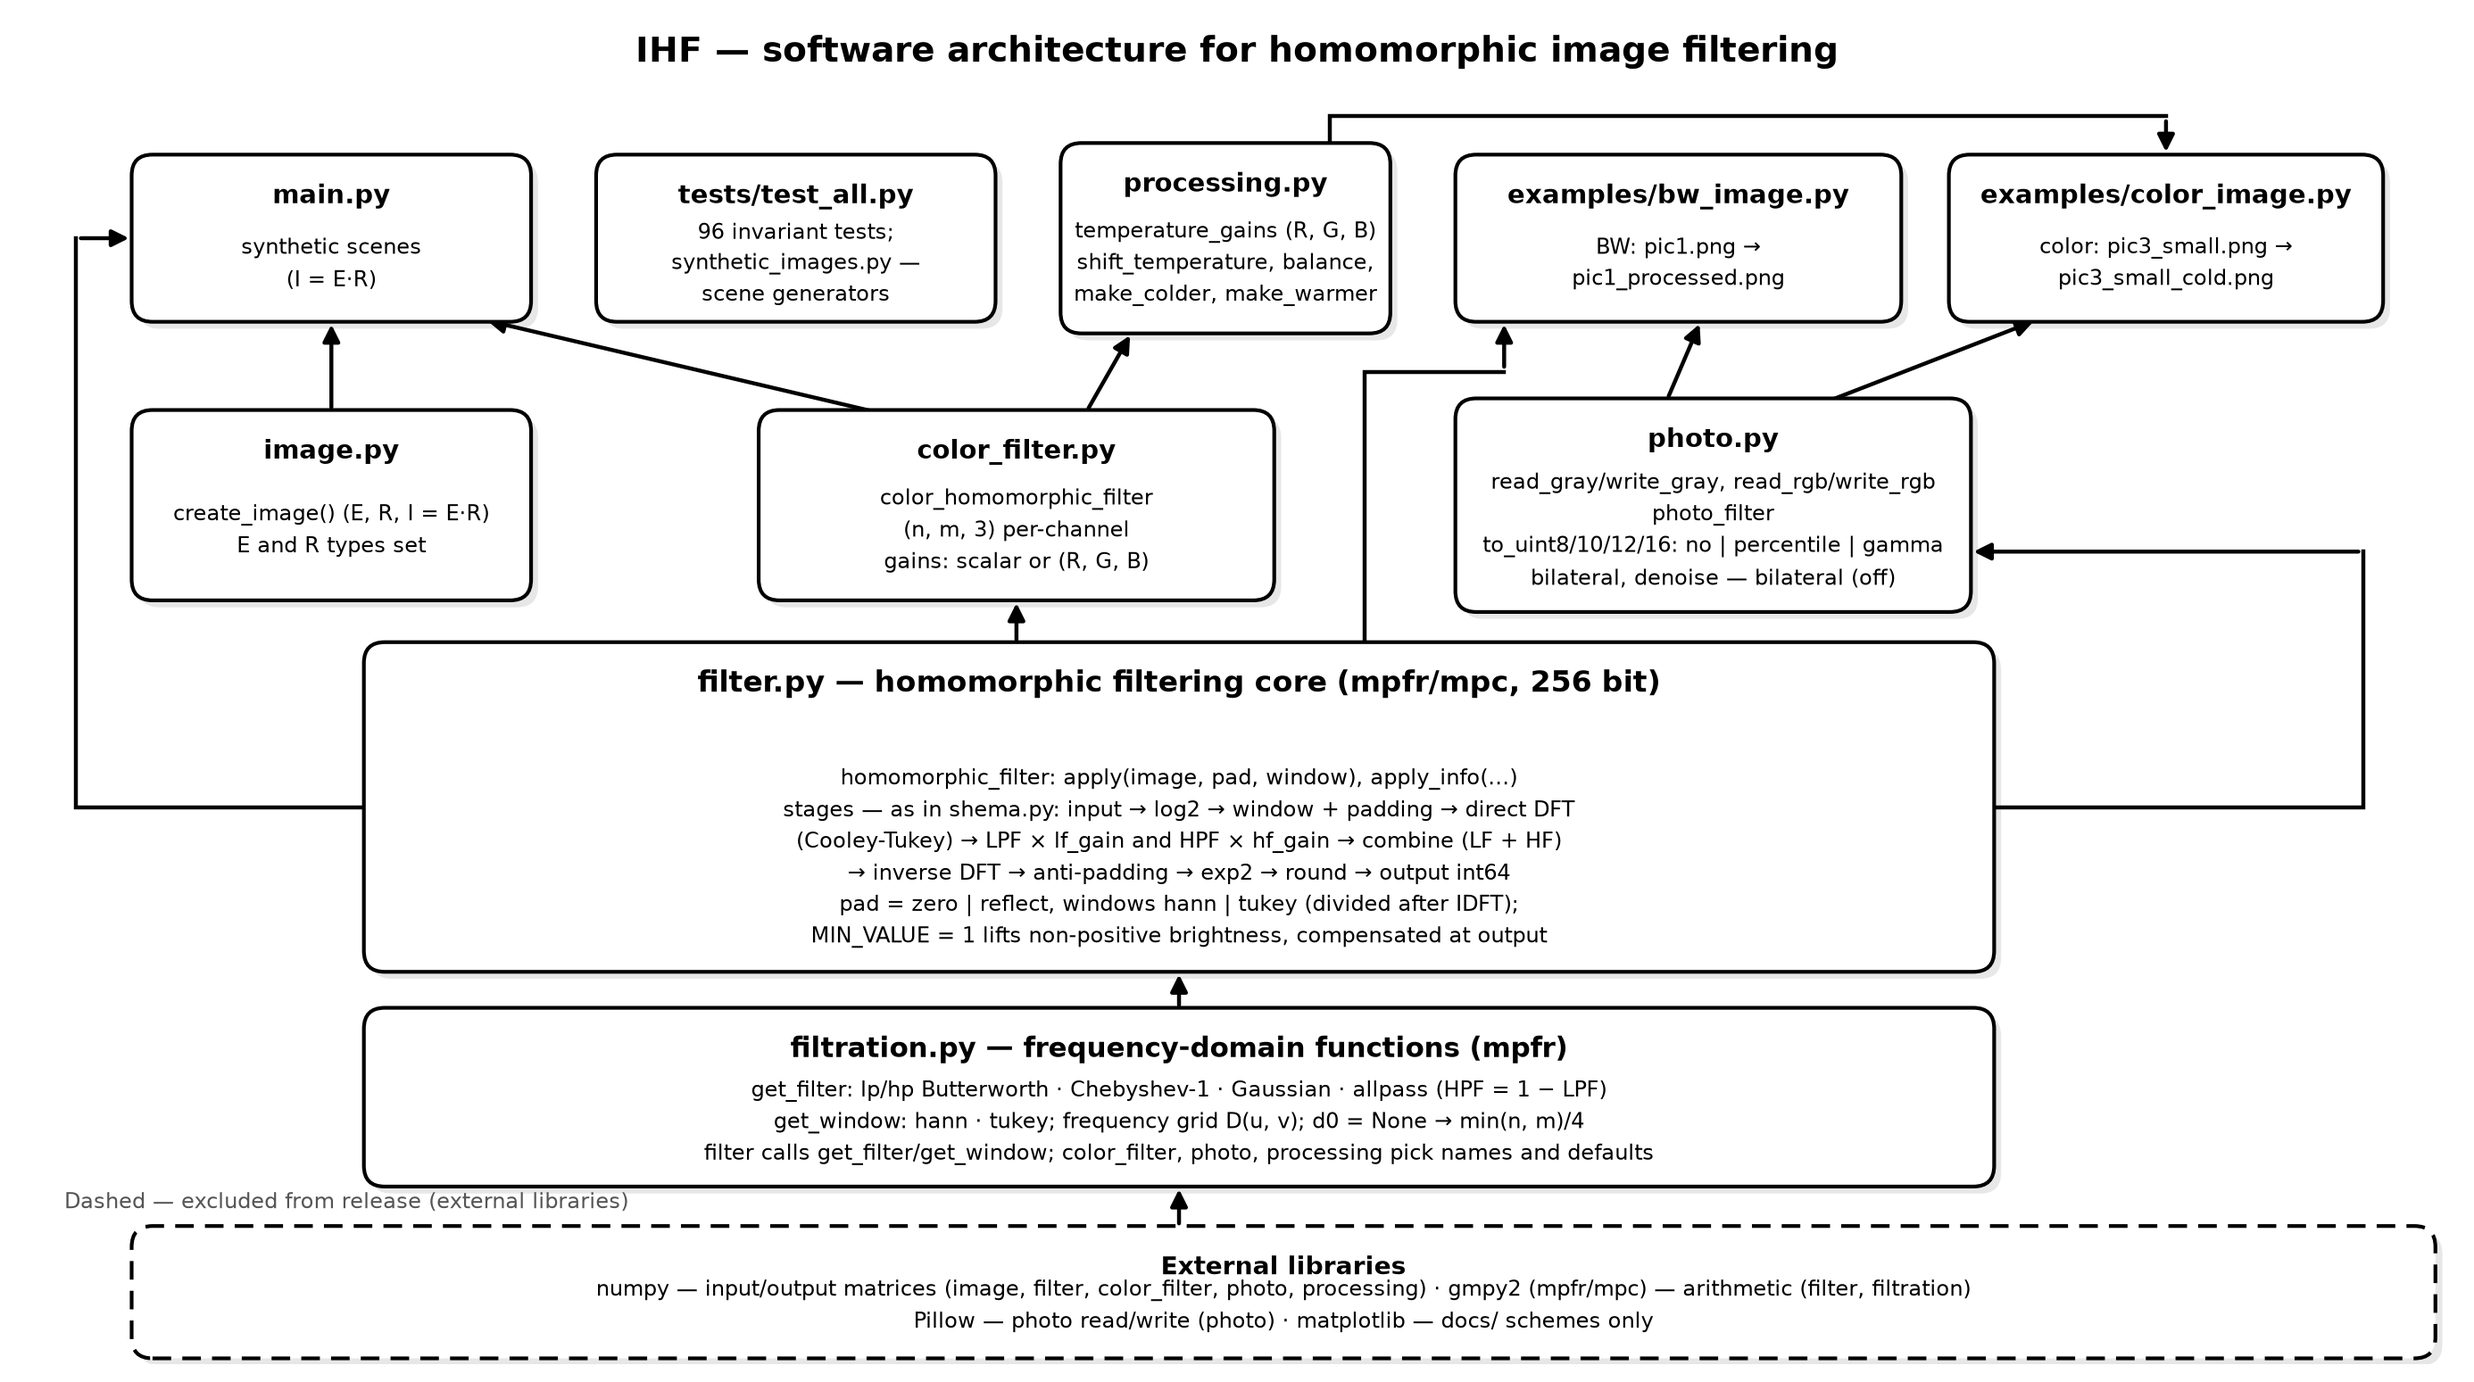
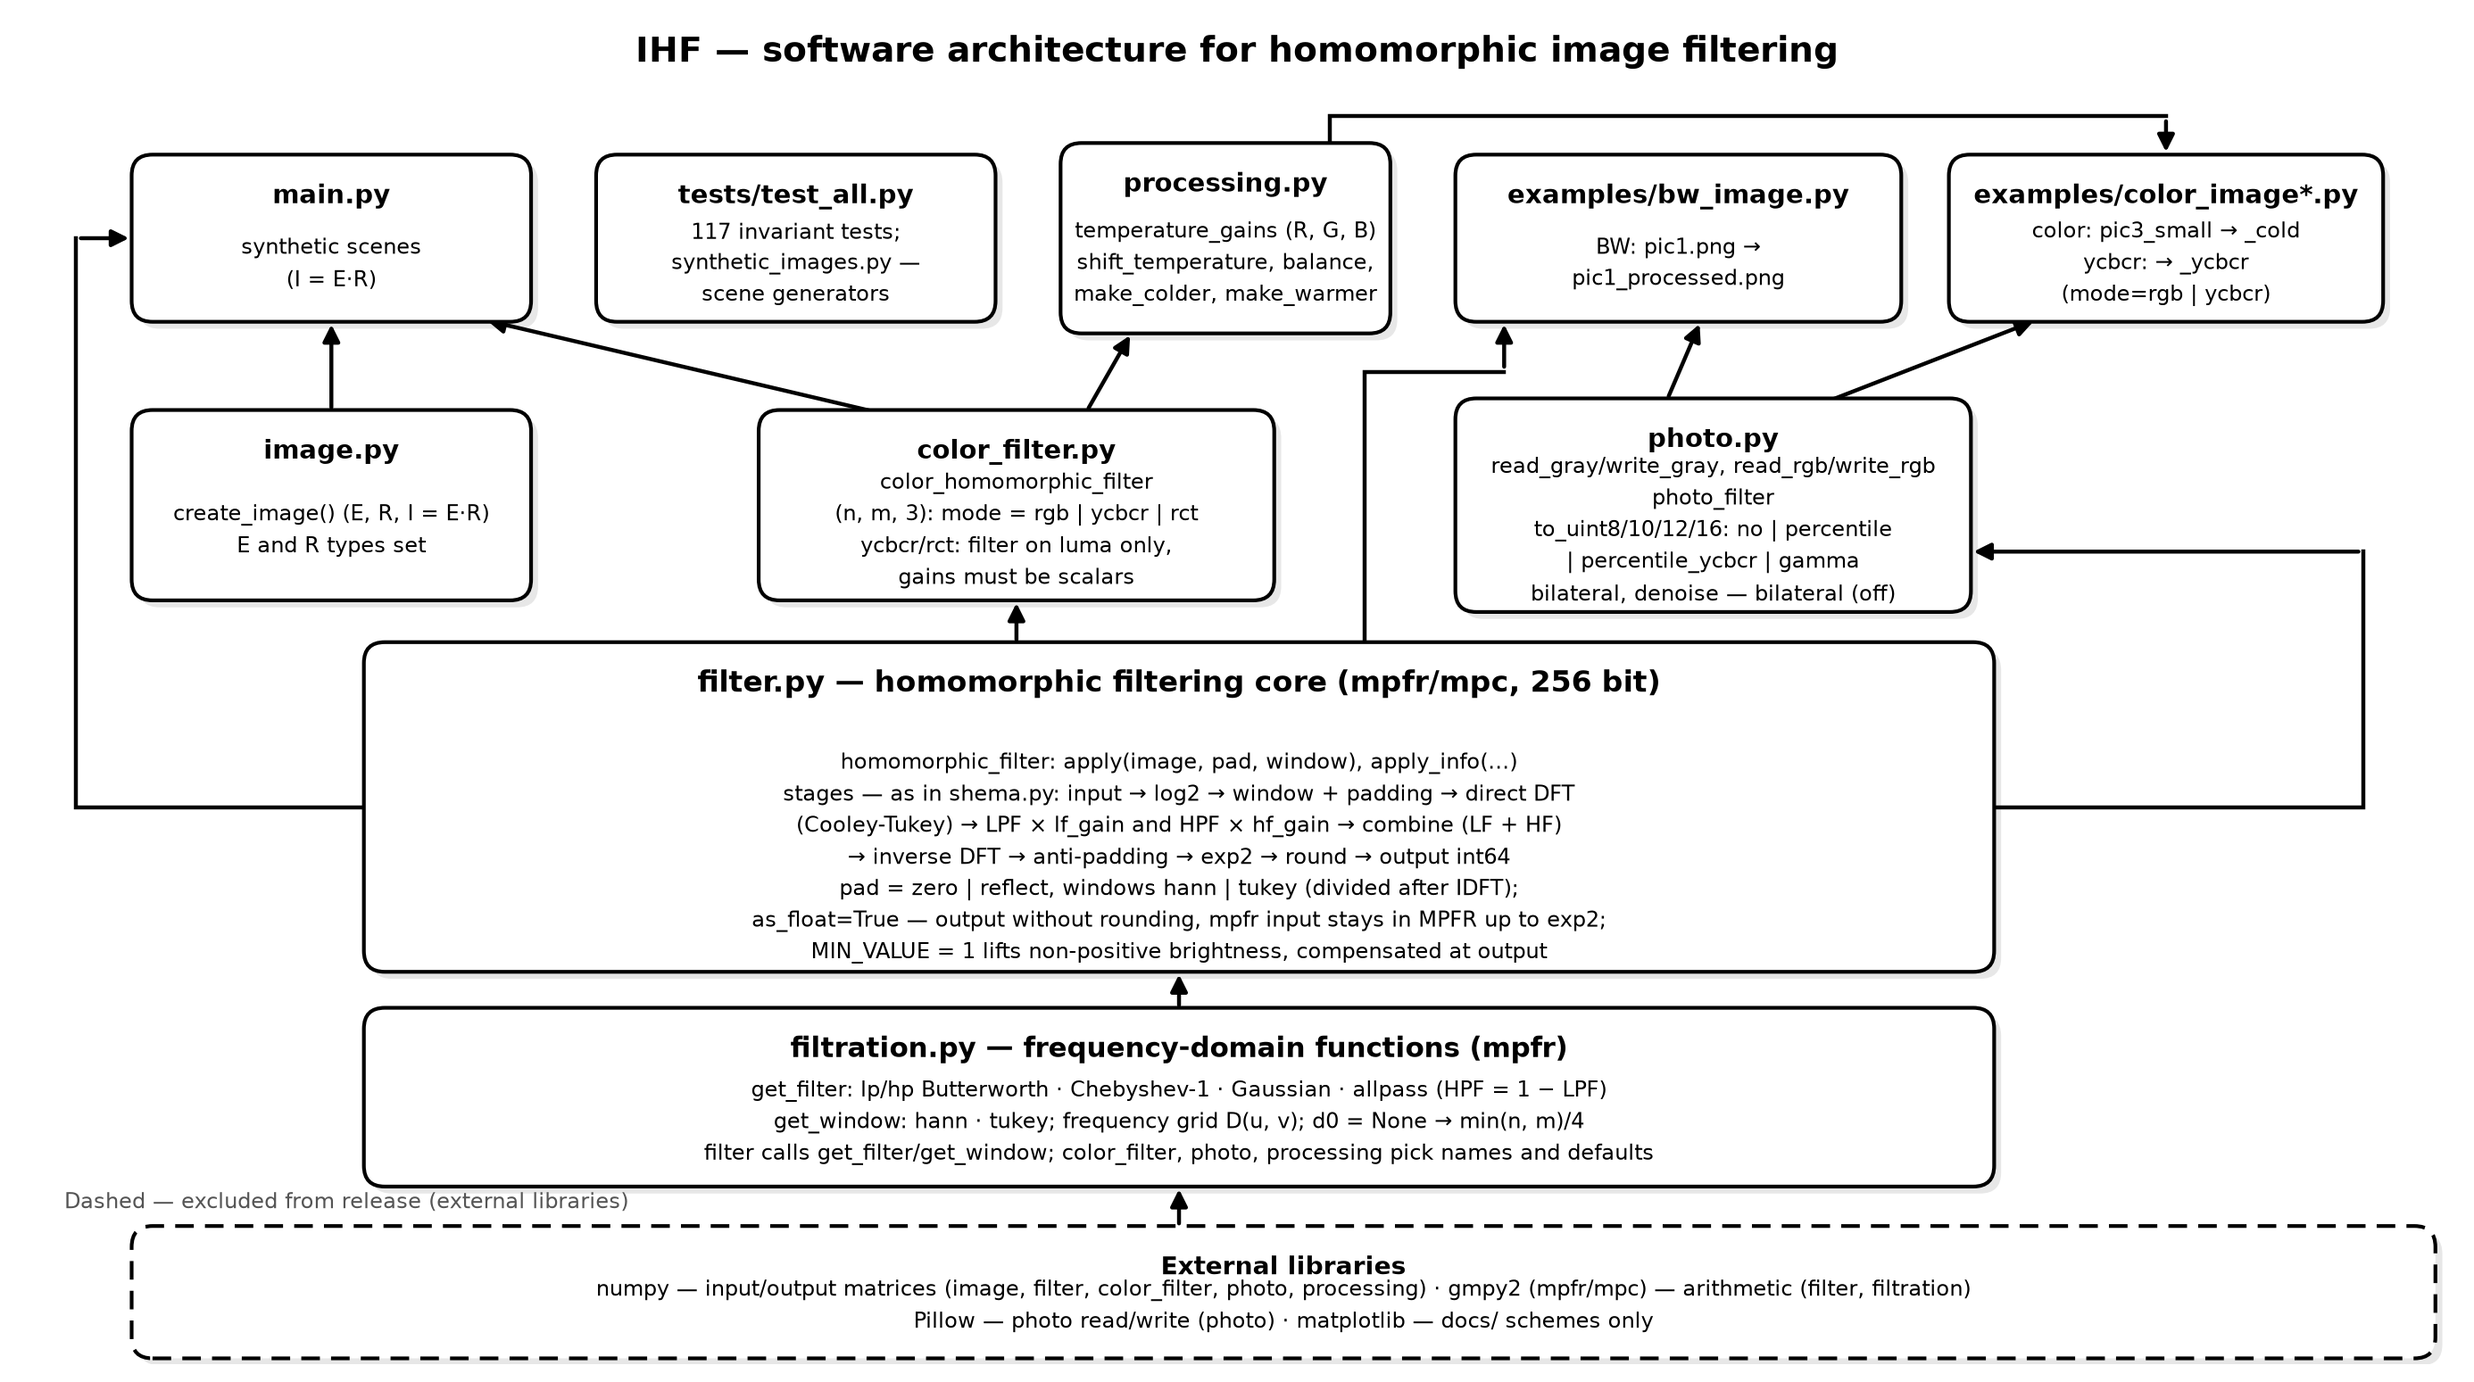
Update docs

diff --git a/docs/architecture.py b/docs/architecture.py
@@ -21,23 +21,27 @@ LANGS = {
                  "гомоморфной фильтрации",
         "main": ("main.py", "синтетические сцены\n(I = E·R)"),
         "tests": ("tests/test_all.py",
-                  "96 тестов инвариантов;\nsynthetic_images.py —\n"
+                  "117 тестов инвариантов;\nsynthetic_images.py —\n"
                   "сцены для тестов"),
         "processing": ("processing.py", "temperature_gains (R, G, B)\n"
                                         "shift_temperature, balance,\n"
                                         "make_colder, make_warmer"),
         "bw_example": ("examples/bw_image.py", "ЧБ: pic1.png →\n"
                                                "pic1_processed.png"),
-        "color_example": ("examples/color_image.py", "цвет: pic3_small.png →\n"
-                                                     "pic3_small_cold.png"),
+        "color_example": ("examples/color_image*.py",
+                          "цвет: pic3_small → _cold\n"
+                          "ycbcr: → _ycbcr\n"
+                          "(mode=rgb | ycbcr)"),
         "image": ("image.py", "create_image() (E, R, I = E·R)\n"
                               "набор типов E и R"),
         "color_filter": ("color_filter.py", "color_homomorphic_filter\n"
-                                            "(n, m, 3) — поканально\n"
-                                            "усиления: скаляр или (R, G, B)"),
+                         "(n, m, 3): mode = rgb | ycbcr | rct\n"
+                         "ycbcr/rct: фильтр только яркость,\n"
+                         "усиления — только скаляр"),
         "photo": ("photo.py", "read_gray/write_gray, read_rgb/write_rgb\n"
                               "photo_filter\n"
-                              "to_uint8/10/12/16: no | percentile | gamma\n"
+                              "to_uint8/10/12/16: no | percentile\n"
+                              "| percentile_ycbcr | gamma\n"
                               "bilateral, denoise — билатерный (выкл)"),
         "filter_core": ("filter.py — ядро гомоморфной фильтрации "
                         "(mpfr/mpc, 256 бит)",
@@ -49,10 +53,12 @@ LANGS = {
                         "объединение (НЧ + ВЧ)\n"
                         "→ обратное БПФ → анти-дополнение → exp2 → "
                         "округление → выход int64\n"
-                        "pad = zero | reflect, окна hann | tukey "
-                        "(делятся после ОБПФ);\n"
-                         "MIN_VALUE = 1 поднимает неположительную яркость, "
-                         "компенсируется на выходе"),
+                         "pad = zero | reflect, окна hann | tukey "
+                         "(делятся после ОБПФ);\n"
+                         "as_float=True — выход без округления, mpfr-вход "
+                         "не покидает MPFR до exp2;\n"
+                          "MIN_VALUE = 1 поднимает неположительную яркость, "
+                          "компенсируется на выходе"),
         "filtration": ("filtration.py — функции частотной области (mpfr)",
                        "get_filter: lp/hp Баттерворт · Чебышёв-1 · "
                        "Гаусс · allpass "
@@ -76,24 +82,27 @@ LANGS = {
                  "homomorphic image filtering",
         "main": ("main.py", "synthetic scenes\n(I = E·R)"),
         "tests": ("tests/test_all.py",
-                  "96 invariant tests;\nsynthetic_images.py —\n"
+                  "117 invariant tests;\nsynthetic_images.py —\n"
                   "scene generators"),
         "processing": ("processing.py", "temperature_gains (R, G, B)\n"
                                         "shift_temperature, balance,\n"
                                         "make_colder, make_warmer"),
         "bw_example": ("examples/bw_image.py", "BW: pic1.png →\n"
                                                "pic1_processed.png"),
-        "color_example": ("examples/color_image.py",
-                          "color: pic3_small.png →\n"
-                                                     "pic3_small_cold.png"),
+        "color_example": ("examples/color_image*.py",
+                           "color: pic3_small → _cold\n"
+                          "ycbcr: → _ycbcr\n"
+                          "(mode=rgb | ycbcr)"),
         "image": ("image.py", "create_image() (E, R, I = E·R)\n"
                               "E and R types set"),
         "color_filter": ("color_filter.py", "color_homomorphic_filter\n"
-                                            "(n, m, 3) per-channel\n"
-                                            "gains: scalar or (R, G, B)"),
+                         "(n, m, 3): mode = rgb | ycbcr | rct\n"
+                         "ycbcr/rct: filter on luma only,\n"
+                         "gains must be scalars"),
         "photo": ("photo.py", "read_gray/write_gray, read_rgb/write_rgb\n"
                               "photo_filter\n"
-                              "to_uint8/10/12/16: no | percentile | gamma\n"
+                              "to_uint8/10/12/16: no | percentile\n"
+                              "| percentile_ycbcr | gamma\n"
                               "bilateral, denoise — bilateral (off)"),
         "filter_core": ("filter.py — homomorphic filtering core "
                         "(mpfr/mpc, 256 bit)",
@@ -105,10 +114,12 @@ LANGS = {
                         "→ combine (LF + HF)\n"
                         "→ inverse DFT → anti-padding → exp2 → round "
                         "→ output int64\n"
-                        "pad = zero | reflect, windows hann | tukey "
-                        "(divided after IDFT);\n"
-                         "MIN_VALUE = 1 lifts non-positive brightness, "
-                         "compensated at output"),
+                         "pad = zero | reflect, windows hann | tukey "
+                         "(divided after IDFT);\n"
+                         "as_float=True — output without rounding, mpfr input "
+                         "stays in MPFR up to exp2;\n"
+                          "MIN_VALUE = 1 lifts non-positive brightness, "
+                          "compensated at output"),
         "filtration": ("filtration.py — frequency-domain functions (mpfr)",
                        "get_filter: lp/hp Butterworth · Chebyshev-1 · "
                        "Gaussian · allpass "

diff --git a/docs/photo_shema.py b/docs/photo_shema.py
@@ -1,15 +1,18 @@
 """
-Схемы применения гомоморфного фильтра к фотографиям (две картинки):
+Схемы применения гомоморфного фильтра к фотографиям (три картинки):
 
-    photo_schema_bw.png     — кадр в оттенках серого (examples/bw_image.py)
-    photo_schema_color.png  — цветной кадр     (examples/color_image.py)
+    photo_schema_bw.png       — кадр в оттенках серого (examples/bw_image.py)
+    photo_schema_color.png    — поканальный цвет
+                                (examples/color_image.py)
+    photo_schema_ycbcr.png    — цвет по яркости YCbCr
+                                (examples/color_image_ycbcr.py)
 
 Перед генерацией — check_api(): имена, значения по умолчанию и dtype-цепочка
 сверяются с photo.py, color_filter.py, processing.py, filtration.py, filter.py;
 при расхождении схем со скрипт падает, а не рисует неверную картинку.
 
 Запуск:
-    python docs/photo_shema.py            # пишет обе схемы в docs/
+    python docs/photo_shema.py            # пишет все три схемы в docs/
     python docs/photo_shema.py --en       # + _en.png версии
     python docs/photo_shema.py --show     # и открывает окна просмотра
 """
@@ -26,8 +29,10 @@ sys.path.insert(0, str(Path(__file__).resolve().parent.parent))
 
 _OUT_BW = Path(__file__).with_name("photo_schema_bw.png")
 _OUT_COLOR = Path(__file__).with_name("photo_schema_color.png")
+_OUT_YCBCR = Path(__file__).with_name("photo_schema_ycbcr.png")
 _OUT_BW_EN = Path(__file__).with_name("photo_schema_bw_en.png")
 _OUT_COLOR_EN = Path(__file__).with_name("photo_schema_color_en.png")
+_OUT_YCBCR_EN = Path(__file__).with_name("photo_schema_ycbcr_en.png")
 
 LANGS = {
     "ru": {
@@ -51,6 +56,16 @@ LANGS = {
         ],
         "temp": ("make_colder / make_warmer — опция\n"
                  "lf_gain = (1−t, 1, 1+t): холоднее / теплее"),
+        "ycbcr": [
+            ("pic3_small.png\nфото на входе\n(PNG / JPEG)", False),
+            ("read_rgb\nRGB или RGBA:\nfloat64 (n, m, 3/4)", False),
+            ("BT.601 в mpfr,\nфильтр только Y,\nCb/Cr без изменений", False),
+            ("to_uint8\npercentile_ycbcr:\nрастяжка только по Y", False),
+            ("denoise\n(билатерный фильтр)\nвыкл",              True),
+            ("write_rgb\n8 бит, RGB или\nRGBA (n, m, 4)", False),
+        ],
+        "ycbcr_note": ("усиления — только скаляр (поканальные — ValueError);\n"
+                       "хроматика сохраняется точно: chroma 28.18 → 28.18"),
     },
     "en": {
         "bw": [
@@ -72,6 +87,16 @@ LANGS = {
         ],
         "temp": ("make_colder / make_warmer — option\n"
                  "lf_gain = (1−t, 1, 1+t): cooler / warmer"),
+        "ycbcr": [
+            ("pic3_small.png\ninput photo\n(PNG / JPEG)", False),
+            ("read_rgb\nRGB or RGBA:\nfloat64 (n, m, 3/4)", False),
+            ("BT.601 conversion\nin mpfr, filter Y,\nCb/Cr untouched", False),
+            ("to_uint8\npercentile_ycbcr:\nstretch on Y only", False),
+            ("denoise\n(bilateral filter)\ndisabled",                 True),
+            ("write_rgb\n8-bit, RGB or\nRGBA (n, m, 4)", False),
+        ],
+        "ycbcr_note": ("scalar gains only (per-channel raises ValueError);\n"
+                       "chroma preserved exactly: 28.18 → 28.18"),
     },
 }
 
@@ -92,7 +117,8 @@ def check_api() -> None:
     needed = {
         photo: ["read_gray", "write_gray", "read_rgb", "write_rgb",
                 "photo_filter", "bilateral", "denoise"],
-        color_filter: ["color_homomorphic_filter", "CHANNELS"],
+        color_filter: ["color_homomorphic_filter", "CHANNELS",
+                       "rgb_to_ycbcr", "ycbcr_to_rgb"],
         processing: ["temperature_gains", "make_colder", "make_warmer"],
         filtration: ["DEFAULT_LF_FILTER", "D0_DEFAULT"],
         ihf_filter: ["homomorphic_filter", "MIN_VALUE"],
@@ -113,6 +139,12 @@ def check_api() -> None:
     assert (sig(photo.photo_filter.__init__).parameters["pad"].default
             == "reflect")
     assert processing.temperature_gains(0.01) == (0.99, 1.0, 1.01)
+
+    # ycbcr-режим: параметр mode + отдельная растяжка по яркости
+    assert "mode" in sig(
+        color_filter.color_homomorphic_filter.__init__).parameters
+    assert "ycbcr" in color_filter._COLOR_MODES
+    assert "percentile_ycbcr" in photo._output_types
 
     # Цвет — только 8 бит: 10/12/16-битный вывод write_rgb отклоняет
     bad = Path(tempfile.gettempdir()) / "ihf_bad_dtype.png"
@@ -196,6 +228,13 @@ def render(lang: str) -> None:
     draw_box(ax, XS[2], 3.0, L["temp"], w=4.6, h=0.95, dashed=True)
     arrow(ax, XS[2], 2.52, XS[2], 1.83, dashed=True)
     save(ax, Path(__file__).with_name(f"photo_schema_color{suffix}.png"))
+
+    # examples/color_image_ycbcr.py
+    ax = new_sheet((0.1, 17.6), (0.45, 3.7))
+    chain(ax, 1.2, L["ycbcr"])
+    draw_box(ax, XS[2], 3.0, L["ycbcr_note"], w=5.6, h=0.95, dashed=True)
+    arrow(ax, XS[2], 2.52, XS[2], 1.83, dashed=True)
+    save(ax, Path(__file__).with_name(f"photo_schema_ycbcr{suffix}.png"))
 
 
 check_api()
